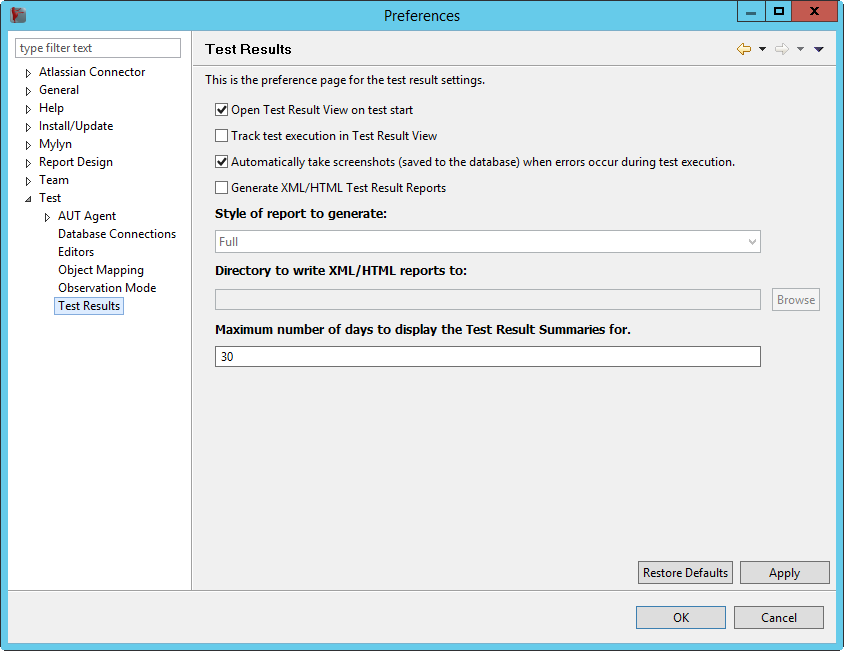
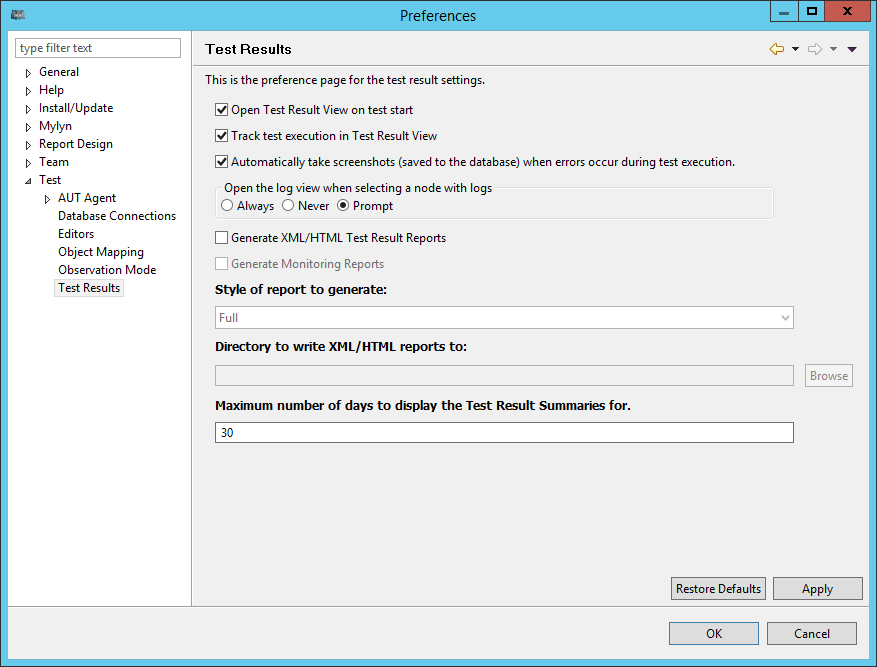
Sprint-task: JaCoCo - Code Coverage Report automatic export

diff --git a/org.eclipse.jubula.client.ui.rcp/src/org/eclipse/jubula/client/ui/rcp/preferences/TestResultPreferencePage.java b/org.eclipse.jubula.client.ui.rcp/src/org/eclipse/jubula/client/ui/rcp/preferences/TestResultPreferencePage.java
@@ -93,6 +93,9 @@ public class TestResultPreferencePage extends PreferencePage
     
     /** Checkbox to decide Report Generation */
     private Button m_generateReport = null;
+    
+    /** Checkbox to decide Monitoring Report Generation */
+    private Button m_generateMonitoringReport = null;
 
     /** ComboBox to decide Report Generation style */
     private Combo m_reportStyle = null;
@@ -346,6 +349,7 @@ public class TestResultPreferencePage extends PreferencePage
         m_generateReport.addSelectionListener(new SelectionListener() {
             public void widgetSelected(SelectionEvent e) {
                 enableReportStyleCombo();
+                enableMonitoringReportGeneration();
                 enableLogFileBrowser();
                 checkCompleteness();
             }
@@ -354,6 +358,8 @@ public class TestResultPreferencePage extends PreferencePage
                 // nothing here
             }
         });
+        
+        createMonitoringReportButton(parent);
         
         createReportStyleCombo(parent);
         Label label = new Label(parent, SWT.NONE);
@@ -406,6 +412,21 @@ public class TestResultPreferencePage extends PreferencePage
             }
         });
     }
+
+    /**
+     * Create view to decide automatic monitoring report generation.
+     * @param parent The parent <code>Composite</code>
+     */
+    private void createMonitoringReportButton(Composite parent) {
+        GridData gridData;
+        m_generateMonitoringReport = new Button(parent, SWT.CHECK);
+        m_generateMonitoringReport.setText(Messages
+                .TestResultViewPreferencePageGenerateMonitoringReport);
+        gridData = new GridData(GridData.FILL_HORIZONTAL);
+        gridData.horizontalSpan = 4;
+        gridData.grabExcessHorizontalSpace = true;
+        m_generateMonitoringReport.setLayoutData(gridData);
+    }
     
 
     /**
@@ -452,6 +473,8 @@ public class TestResultPreferencePage extends PreferencePage
             OPENRESULTVIEW_KEY));
         m_generateReport.setSelection(getDefaultPrefsBool(
             Constants.GENERATEREPORT_KEY));
+        m_generateMonitoringReport.setSelection(
+                getDefaultPrefsBool(Constants.GENERATE_MONITORING_REPORT_KEY));
         m_trackResults.setSelection(getDefaultPrefsBool(
             Constants.TRACKRESULTS_KEY));
         m_autoScreenshots.setSelection(getDefaultPrefsBool(
@@ -462,6 +485,7 @@ public class TestResultPreferencePage extends PreferencePage
             Constants.REPORTGENERATORSTYLE_KEY));
         m_reportStyle.setEnabled(m_generateReport.getSelection());
         m_path.setText(getDefaultPrefsString(Constants.RESULTPATH_KEY));
+        m_generateMonitoringReport.setEnabled(m_generateReport.getSelection());
         m_path.setEnabled(m_generateReport.getSelection());
         m_numberOfDays.setText(getDefaultPrefsString(
                 Constants.MAX_NUMBER_OF_DAYS_KEY));
@@ -490,6 +514,8 @@ public class TestResultPreferencePage extends PreferencePage
             Constants.OPENRESULTVIEW_KEY));
         m_generateReport.setSelection(getPreferenceStore().getBoolean(
             Constants.GENERATEREPORT_KEY));
+        m_generateMonitoringReport.setSelection(getPreferenceStore()
+                .getBoolean(Constants.GENERATE_MONITORING_REPORT_KEY));
         m_trackResults.setSelection(getPreferenceStore().getBoolean(
                 Constants.TRACKRESULTS_KEY));
         m_autoScreenshots.setSelection(getPreferenceStore().getBoolean(
@@ -502,6 +528,7 @@ public class TestResultPreferencePage extends PreferencePage
                 Constants.MAX_NUMBER_OF_DAYS_KEY));
         enableReportStyleCombo();
         enableLogFileBrowser();
+        enableMonitoringReportGeneration();
 
     }
 
@@ -524,6 +551,8 @@ public class TestResultPreferencePage extends PreferencePage
         // set preferences in store
         boolean openResult = m_openResultView.getSelection();
         boolean generateReport = m_generateReport.getSelection();
+        boolean generateMonitoringReport = m_generateMonitoringReport
+                .getSelection();
         boolean trackResults = m_trackResults.getSelection();
         boolean autoScreenshots = m_autoScreenshots.getSelection();
         // set preferences in store
@@ -531,6 +560,8 @@ public class TestResultPreferencePage extends PreferencePage
             Constants.OPENRESULTVIEW_KEY, openResult);
         getPreferenceStore().setValue(
             Constants.GENERATEREPORT_KEY, generateReport);
+        getPreferenceStore().setValue(Constants.GENERATE_MONITORING_REPORT_KEY,
+                generateMonitoringReport);
         getPreferenceStore().setValue(
             Constants.TRACKRESULTS_KEY, trackResults);
         getPreferenceStore().setValue(
@@ -570,6 +601,15 @@ public class TestResultPreferencePage extends PreferencePage
         performOk();
     }
 
+    /**
+     * Set the same enabled state to monitoring report generation like the
+     * html/xml generation.
+     */
+    protected void enableMonitoringReportGeneration() {
+        m_generateMonitoringReport
+                .setEnabled(m_generateReport.getSelection());
+    }
+        
     /**
      * 
      */

diff --git a/org.eclipse.jubula.client.core/src/org/eclipse/jubula/client/core/ClientTestImpl.java b/org.eclipse.jubula.client.core/src/org/eclipse/jubula/client/core/ClientTestImpl.java
@@ -10,7 +10,9 @@
  *******************************************************************************/
 package org.eclipse.jubula.client.core;
 
+import java.io.BufferedOutputStream;
 import java.io.File;
+import java.io.FileOutputStream;
 import java.io.IOException;
 import java.net.InetAddress;
 import java.util.ArrayList;
@@ -116,6 +118,7 @@ import org.eclipse.jubula.tools.internal.objects.MonitoringValue;
 import org.eclipse.jubula.tools.internal.registration.AutIdentifier;
 import org.eclipse.jubula.tools.internal.utils.MonitoringUtil;
 import org.eclipse.jubula.tools.internal.utils.TimeUtil;
+import org.eclipse.jubula.tools.internal.utils.ZipUtil;
 import org.eclipse.osgi.util.NLS;
 import org.slf4j.Logger;
 import org.slf4j.LoggerFactory;
@@ -176,6 +179,11 @@ public class ClientTestImpl implements IClientTest {
     /** log style (for example, Complete or Errors only) */
     private String m_logStyle = null;
 
+    /**
+     * flag, which indicates monitoring reports will be exported automatically.
+     */
+    private boolean m_generateMonitoringReport;
+    
     /**
      * log path for results
      */
@@ -1087,6 +1095,13 @@ public class ClientTestImpl implements IClientTest {
                         }
                     }
                     writeMonitoringResults(result);
+                    if (m_logPath != null && m_generateMonitoringReport) {
+                        writeMonitoringReportToFile(result);
+                    }
+               
+                    //set the monitoring report in result to null, 
+                    //so it can be garbage collected
+                    result.setReportData(null);
                     monitor.done();
                     return Status.OK_STATUS;
                 } catch (Throwable t) {
@@ -1125,10 +1140,58 @@ public class ClientTestImpl implements IClientTest {
         }
         summary = TestResultSummaryPM.mergeTestResultSummaryInDB(summary); 
         setTestresultSummary(summary);
-        //set the monitoring report in result to null, 
-        //so it can be garbage collected
-        result.setReportData(null);
     }
+    
+    /**
+     * Write Jacoco Monitoring report to file
+     * @param result result to create the monitoring report for
+     */ 
+    public void writeMonitoringReportToFile(TestResult result) {
+
+        byte[] reportData = result.getReportData();
+        if (reportData == null || reportData 
+                == (MonitoringConstants.EMPTY_REPORT)) {
+            return;
+        }
+        
+        final ITestResultSummaryPO testResultSummary = 
+                                        getTestresultSummary();
+        String theProjName = testResultSummary
+                .getTestsuiteName() + "-" //$NON-NLS-1$
+                + testResultSummary.getInternalMonitoringId()
+                + "-" //$NON-NLS-1$
+                + testResultSummary.getId().toString();
+        BufferedOutputStream bos = null;
+        File tmpZip = null;
+        try {
+           
+            tmpZip = File.createTempFile("tmpReport", ".zip"); //$NON-NLS-1$ //$NON-NLS-2$
+            bos = new BufferedOutputStream(new FileOutputStream(tmpZip));
+            bos.write(reportData);
+
+            String targetDirName = m_logPath + File.separator
+                    + "JaCoCo Reports" + File.separator //$NON-NLS-1$
+                    + theProjName;
+
+            ZipUtil.unzip(tmpZip, new File(targetDirName));
+
+        } catch (IOException e) {
+            log.error(e.toString());   
+        } finally {
+            try {
+                if (bos != null) {
+                    bos.close();
+                }
+                if (tmpZip != null) {
+                    tmpZip.delete();
+                }
+            } catch (IOException e) {
+                log.error("Error while writing zip file to tmp dir", e); //$NON-NLS-1$                        
+            }
+        }
+      
+    }
+    
     /**
      * find the significant monitoring value
      * @param map The map containing monitoring values
@@ -1331,6 +1394,11 @@ public class ClientTestImpl implements IClientTest {
     public void setLogStyle(String logStyle) {
         m_logStyle = logStyle;
     }
+    
+    @Override
+    public void setGenerateMonitoringReport(Boolean generateMonitoringReport) {
+        this.m_generateMonitoringReport = generateMonitoringReport;
+    }
 
     /**
      * @return the Test Result Summary for the current test execution, or for
@@ -1480,4 +1548,6 @@ public class ClientTestImpl implements IClientTest {
     public boolean isReportingRunning() {
         return m_isReportRunning.get();
     }
+
+   
 }

diff --git a/org.eclipse.jubula.client.cmd/src/org/eclipse/jubula/client/cmd/JobConfiguration.java b/org.eclipse.jubula.client.cmd/src/org/eclipse/jubula/client/cmd/JobConfiguration.java
@@ -121,6 +121,8 @@ public class JobConfiguration {
     private boolean m_xmlScreenshot = true;
     /** file name for the xml and html document */
     private String m_fileName;
+    /** flag to generate monitoring report */
+    private boolean m_generateMonitoringReport;
     
     /**
      * constructor
@@ -271,6 +273,19 @@ public class JobConfiguration {
         return m_server;
     }
     
+    /**
+     * @return true, if the monitoring report should be generated, else false
+     */
+    public boolean isGenerateMonitoringReport() {
+        return m_generateMonitoringReport;
+    }
+
+    /** 
+     * @param generateMonitoringReport to set
+     */
+    public void setGenerateMonitoringReport(boolean generateMonitoringReport) {
+        this.m_generateMonitoringReport = generateMonitoringReport;
+    }
 
     /**
      * initializes the job configuration object after loading project
@@ -460,6 +475,9 @@ public class JobConfiguration {
         }
         if (cmd.hasOption(ClientStrings.RESULT_NAME)) {
             setFileName(cmd.getOptionValue(ClientStrings.RESULT_NAME));
+        }
+        if (cmd.hasOption(ClientTestStrings.GENERATE_MONITORING_REPORT)) { 
+            setGenerateMonitoringReport(true); 
         }
     }
 

diff --git a/org.eclipse.jubula.client.ui/src/org/eclipse/jubula/client/ui/constants/Constants.java b/org.eclipse.jubula.client.ui/src/org/eclipse/jubula/client/ui/constants/Constants.java
@@ -202,6 +202,9 @@ public interface Constants {
     /** Key for m_text value to be stored as a resource property */
     public static final String GENERATEREPORT_KEY = "GENERATEREPORT_KEY"; //$NON-NLS-1$
 
+    /** Key for m_generateReport value to be stored as a resource property */
+    public static final String GENERATE_MONITORING_REPORT_KEY = "GENERATE_MONITORING_REPORT_KEY"; //$NON-NLS-1$
+    
     /** Key for report generator style to be stored as a resource property */
     public static final String REPORTGENERATORSTYLE_KEY = "REPORTGENERATORSTYLE_KEY"; //$NON-NLS-1$
     
@@ -359,6 +362,9 @@ public interface Constants {
 
     /** Key for boolean value to be stored as a resource property */
     public static final boolean GENERATEREPORT_KEY_DEFAULT = false;
+    
+    /** Key for m_generateMonitoringReport value to be stored as a resource property */
+    public static final boolean GENERATE_MONITORING_REPORT_KEY_DEFAULT = false;
 
     /** Key for m_text value to be stored as a resource property */
     public static final boolean TEST_EXECUTION_RELEVANT_REMEMBER_KEY_DEFAULT = 

diff --git a/org.eclipse.jubula.client.ui/src/org/eclipse/jubula/client/ui/preferences/PreferenceInitializer.java b/org.eclipse.jubula.client.ui/src/org/eclipse/jubula/client/ui/preferences/PreferenceInitializer.java
@@ -96,6 +96,8 @@ public class PreferenceInitializer extends AbstractPreferenceInitializer {
             IPreferenceStore prefStore) {
         prefStore.setDefault(Constants.GENERATEREPORT_KEY,
                 Constants.GENERATEREPORT_KEY_DEFAULT);
+        prefStore.setDefault(Constants.GENERATE_MONITORING_REPORT_KEY,
+                Constants.GENERATE_MONITORING_REPORT_KEY_DEFAULT);
         prefStore.setDefault(Constants.REPORTGENERATORSTYLE_KEY,
             Constants.REPORTGENERATORSTYLE_KEY_DEFAULT);
         prefStore.setDefault(Constants.OPENRESULTVIEW_KEY,

diff --git a/org.eclipse.jubula.client.ui.rcp/src/org/eclipse/jubula/client/ui/rcp/i18n/Messages.java b/org.eclipse.jubula.client.ui.rcp/src/org/eclipse/jubula/client/ui/rcp/i18n/Messages.java
@@ -852,6 +852,7 @@ public class Messages extends NLS {
     public static String TestResultViewPreferencePageDescription;
     public static String TestResultViewPreferencePageDirSelector;
     public static String TestResultViewPreferencePageGenerateReport;
+    public static String TestResultViewPreferencePageGenerateMonitoringReport;
     public static String TestResultViewPreferencePageInvalidMaxNumberOfDays;
     public static String TestResultViewPreferencePageInvalidNegMaxNumberOfDays;
     public static String TestResultViewPreferencePageMaxNumberOfDaysText;

diff --git a/org.eclipse.jubula.app.testexec/src/org/eclipse/jubula/app/testexec/core/TestexecClient.java b/org.eclipse.jubula.app.testexec/src/org/eclipse/jubula/app/testexec/core/TestexecClient.java
@@ -160,6 +160,11 @@ public class TestexecClient extends AbstractCmdlineClient {
         options.addOption(createOption(ClientTestStrings.TIMEOUT, true,
                 ClientTestStrings.TIMEOUT, Messages.ClientTimeout, 
                     false));  
+        
+        options.addOption(
+                createOption(ClientTestStrings.GENERATE_MONITORING_REPORT,
+                        false, StringConstants.EMPTY,
+                        Messages.ClientGenerateMonitoringReport, false));
     }
     
     /**

diff --git a/org.eclipse.jubula.client.ui.rcp/src/org/eclipse/jubula/client/ui/rcp/handlers/AbstractStartTestHandler.java b/org.eclipse.jubula.client.ui.rcp/src/org/eclipse/jubula/client/ui/rcp/handlers/AbstractStartTestHandler.java
@@ -58,6 +58,8 @@ public abstract class AbstractStartTestHandler extends AbstractHandler {
                         MessageIDs.E_FILE_NOT_FOUND));
                 return false;
             }
+            clientTest.setGenerateMonitoringReport(preferenceStore
+                    .getBoolean(Constants.GENERATE_MONITORING_REPORT_KEY));
             clientTest.setLogPath(preferenceStore
                 .getString(Constants.RESULTPATH_KEY));
             clientTest.setLogStyle(preferenceStore

diff --git a/org.eclipse.jubula.client.core/src/org/eclipse/jubula/client/core/businessprocess/ClientTestStrings.java b/org.eclipse.jubula.client.core/src/org/eclipse/jubula/client/core/businessprocess/ClientTestStrings.java
@@ -53,7 +53,8 @@ public class ClientTestStrings {
     public static final String TESTJOB = "testjob"; //$NON-NLS-1$
     /** object attribute */
     public static final String TIMEOUT = "timeout"; //$NON-NLS-1$
-    
+    /** constant string */
+    public static final String GENERATE_MONITORING_REPORT = "generate_monitoring_report"; //$NON-NLS-1$
     /** object attribute */
     public static final String ENTRY = "entry"; //$NON-NLS-1$
     /** object attribute */

diff --git a/org.eclipse.jubula.app.testexec/src/org/eclipse/jubula/app/testexec/core/ExecutionController.java b/org.eclipse.jubula.app.testexec/src/org/eclipse/jubula/app/testexec/core/ExecutionController.java
@@ -317,6 +317,9 @@ public class ExecutionController implements IAUTServerEventListener,
                 TestExecutionConstants.RunSteps.CAA)) {
             return true;
         }
+        // set monitoring report generation
+        clientTest.setGenerateMonitoringReport(
+                m_job.isGenerateMonitoringReport());
         clientTest.setScreenshotXMLFlag(m_job.isXMLScreenshot());
         //prepare connection to the DB
         prepareDBConnection();

diff --git a/org.eclipse.jubula.client.core/src/org/eclipse/jubula/client/core/IClientTest.java b/org.eclipse.jubula.client.core/src/org/eclipse/jubula/client/core/IClientTest.java
@@ -317,6 +317,11 @@ public interface IClientTest {
     public void setLogPath(String logPath);
     
     /**
+     * @param generateMonitoringReport the monitoring report generation flag to set
+     */
+    public void setGenerateMonitoringReport(Boolean generateMonitoringReport);
+    
+    /**
      * @param logStyle <code>String</code> representing the style the log
      *                 use (for example, Complete or Errors only)
      */

diff --git a/org.eclipse.jubula.client.cmd/src/org/eclipse/jubula/client/cmd/i18n/Messages.java b/org.eclipse.jubula.client.cmd/src/org/eclipse/jubula/client/cmd/i18n/Messages.java
@@ -67,6 +67,7 @@ public class Messages extends NLS {
     public static String ClientWorkspaceOpt;
     public static String ClientWritingReport;
     public static String ClientWritingReportToDB;
+    public static String ClientGenerateMonitoringReport;
     public static String ConnectionToAutUnexpectedly;
     public static String ErrorWhileShuttingDownDisconnecting;
     public static String ErrorWhileShuttingDownStopping;
